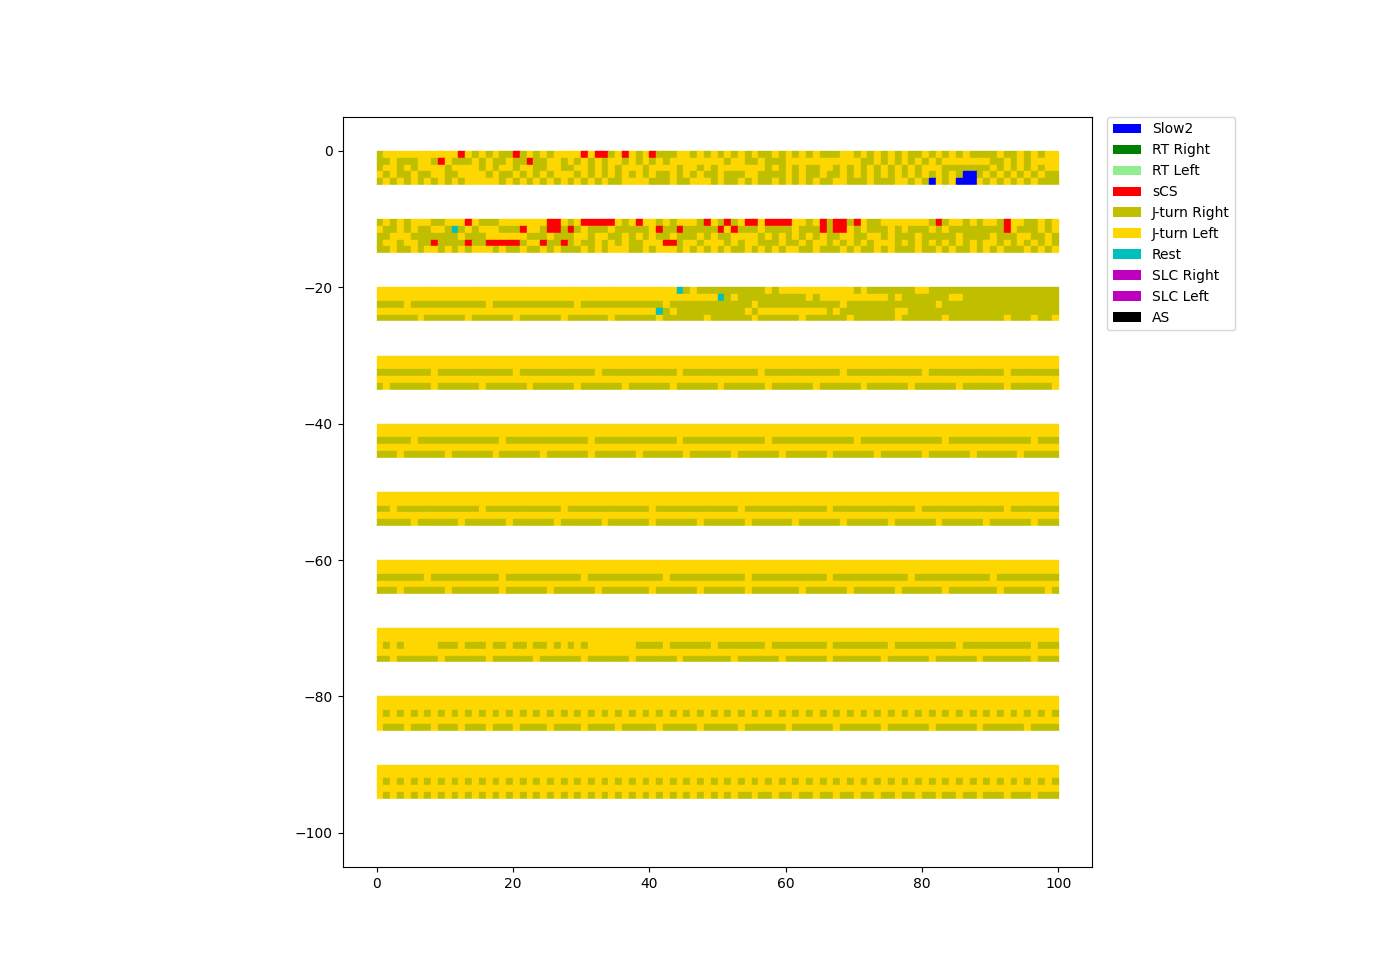
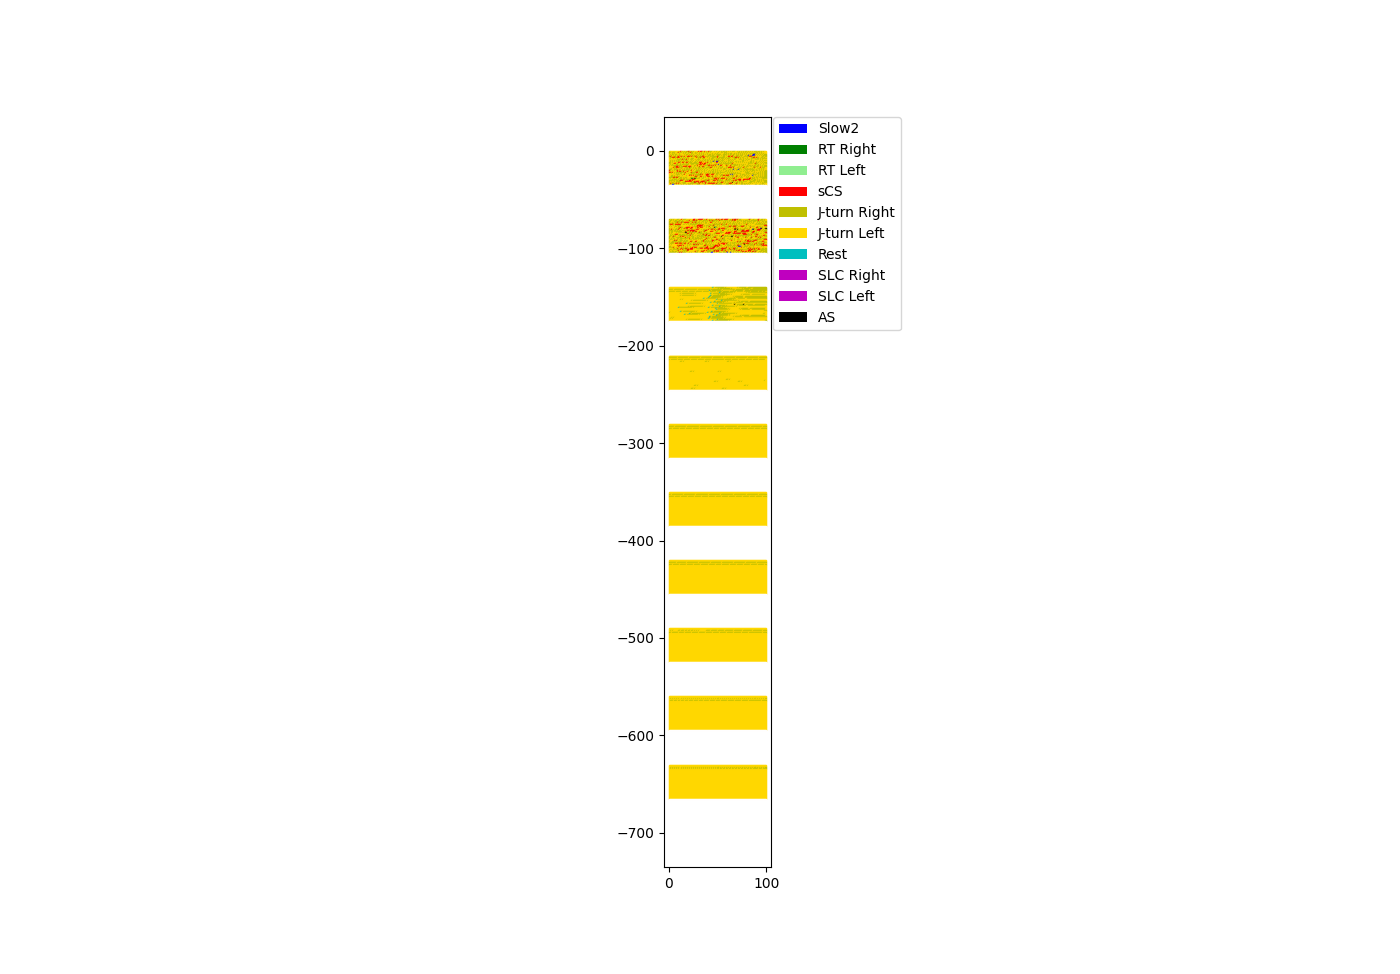
Videos

diff --git a/Analysis/Behavioural/Interventions/assess_full_interruptions.py b/Analysis/Behavioural/Interventions/assess_full_interruptions.py
@@ -287,14 +287,19 @@ def plot_binned_results(results, model_names, bin_size, initialisation_period, f
 def display_action_plots_discrete(model_name, assay_config, assay_id, n, figure_name, slice_size=200):
     actions_compiled = []
     for i in range(1, n+1):
+
         model_compiled = []
-        d = load_data(model_name, assay_config, f"{assay_id}-{i}")
+        if i < 6:
+            d = load_data(model_name, "Interruptions-HA", f"{assay_id}-{i}")
+        else:
+            d = load_data(model_name, assay_config, f"{assay_id}-{i}")
         for i in range(0, d["action"].shape[0], slice_size):
             model_compiled.append(d["action"][i: i+slice_size])
         actions_compiled.append(model_compiled)
 
-    actions_compiled2 = [[actions_compiled[trial][slice] for trial in range(len(actions_compiled))] for slice in range(10)]
-    actions_compiled2 = [actions_compiled2[i] + [(np.ones(slice_size)*10).astype(int) for j in range(len(actions_compiled2[i]))] for i in range(len(actions_compiled2))]
+    # actions_compiled2 = [[actions_compiled[trial][slice] for trial in range(len(actions_compiled))] for slice in range(10)]
+    # actions_compiled2 = [actions_compiled2[i] + [(np.ones(slice_size)*10).astype(int) for j in range(len(actions_compiled2[i]))] for i in range(len(actions_compiled2))]
+    actions_compiled2 = actions_compiled
     actions_compiled2 = np.concatenate((actions_compiled2))
 
     color_set = ['b', 'g', 'lightgreen', 'r', 'y', 'gold', "c", "m", "m", "black", "white"]
@@ -441,37 +446,37 @@ if __name__ == "__main__":
 
 
     # DQN
-    # display_action_plots_discrete("dqn_scaffold_14-1", "Interruptions-H", "Naturalistic", 5,
-    #                               figure_name="dqn_14_1_H_actions", slice_size=100)
+    display_action_plots_discrete("dqn_scaffold_14-1", "Interruptions-H", "Naturalistic", 35,
+                                  figure_name="dqn_14_1_H_actions", slice_size=2000)
     # display_action_plots_discrete("dqn_scaffold_30-2", "Interruptions-H", "Naturalistic", 5,
     #                               figure_name="dqn_30_2_H_actions", slice_size=100)
     # display_action_plots_discrete("dqn_scaffold_18-2", "Interruptions-H", "Naturalistic", 5,
     #                               figure_name="dqn_18_2_H_actions", slice_size=100)
 
-    results1 = assess_all_dqn_binned("dqn_scaffold_18-1", 5, 101)
-    results2 = assess_all_dqn_binned("dqn_scaffold_18-2", 5, 101)
-    results3 = assess_all_dqn_binned("dqn_scaffold_14-1", 5, 101)
-    results4 = assess_all_dqn_binned("dqn_scaffold_14-2", 5, 101)
-    results5 = assess_all_dqn_binned("dqn_scaffold_26-1", 5, 101)
-    results6 = assess_all_dqn_binned("dqn_scaffold_26-2", 5, 101)
-    results7 = assess_all_dqn_binned("dqn_scaffold_30-1", 5, 101)
-    results8 = assess_all_dqn_binned("dqn_scaffold_30-2", 5, 101)
-
-    control1 = assess_dqn_binned("dqn_scaffold_18-1", "Behavioural-Data-Free", 10, 101)
-    control2 = assess_dqn_binned("dqn_scaffold_18-2", "Behavioural-Data-Free", 10, 101)
-    control3 = assess_dqn_binned("dqn_scaffold_14-1", "Behavioural-Data-Free", 10, 101)
-    control4 = assess_dqn_binned("dqn_scaffold_14-2", "Behavioural-Data-Free", 10, 101)
-    control5 = assess_dqn_binned("dqn_scaffold_18-1", "Behavioural-Data-Free", 10, 101)
-    control6 = assess_dqn_binned("dqn_scaffold_18-2", "Behavioural-Data-Free", 10, 101)
-    control7 = assess_dqn_binned("dqn_scaffold_14-1", "Behavioural-Data-Free", 10, 101)
-    control8 = assess_dqn_binned("dqn_scaffold_14-2", "Behavioural-Data-Free", 10, 101)
-
-    model_names = ["dqn_scaffold_18-1", "dqn_scaffold_18-2", "dqn_scaffold_14-1", "dqn_scaffold_14-2",
-                   "dqn_scaffold_26-1", "dqn_scaffold_26-2", "dqn_scaffold_30-1", "dqn_scaffold_30-2"]
-
-    plot_binned_results([results1, results2, results3, results4, results5, results6, results7, results8],
-                        model_names, bin_size=101, initialisation_period=200, figure_name="all_dqn_heterogeneity",
-                        control_results=[control1, control2, control3, control4, control5, control6, control7, control8])
+    # results1 = assess_all_dqn_binned("dqn_scaffold_18-1", 5, 101)
+    # results2 = assess_all_dqn_binned("dqn_scaffold_18-2", 5, 101)
+    # results3 = assess_all_dqn_binned("dqn_scaffold_14-1", 5, 101)
+    # results4 = assess_all_dqn_binned("dqn_scaffold_14-2", 5, 101)
+    # results5 = assess_all_dqn_binned("dqn_scaffold_26-1", 5, 101)
+    # results6 = assess_all_dqn_binned("dqn_scaffold_26-2", 5, 101)
+    # results7 = assess_all_dqn_binned("dqn_scaffold_30-1", 5, 101)
+    # results8 = assess_all_dqn_binned("dqn_scaffold_30-2", 5, 101)
+    #
+    # control1 = assess_dqn_binned("dqn_scaffold_18-1", "Behavioural-Data-Free", 10, 101)
+    # control2 = assess_dqn_binned("dqn_scaffold_18-2", "Behavioural-Data-Free", 10, 101)
+    # control3 = assess_dqn_binned("dqn_scaffold_14-1", "Behavioural-Data-Free", 10, 101)
+    # control4 = assess_dqn_binned("dqn_scaffold_14-2", "Behavioural-Data-Free", 10, 101)
+    # control5 = assess_dqn_binned("dqn_scaffold_18-1", "Behavioural-Data-Free", 10, 101)
+    # control6 = assess_dqn_binned("dqn_scaffold_18-2", "Behavioural-Data-Free", 10, 101)
+    # control7 = assess_dqn_binned("dqn_scaffold_14-1", "Behavioural-Data-Free", 10, 101)
+    # control8 = assess_dqn_binned("dqn_scaffold_14-2", "Behavioural-Data-Free", 10, 101)
+    #
+    # model_names = ["dqn_scaffold_18-1", "dqn_scaffold_18-2", "dqn_scaffold_14-1", "dqn_scaffold_14-2",
+    #                "dqn_scaffold_26-1", "dqn_scaffold_26-2", "dqn_scaffold_30-1", "dqn_scaffold_30-2"]
+    #
+    # plot_binned_results([results1, results2, results3, results4, results5, results6, results7, results8],
+    #                     model_names, bin_size=101, initialisation_period=200, figure_name="all_dqn_heterogeneity",
+    #                     control_results=[control1, control2, control3, control4, control5, control6, control7, control8])
 
 
     # Example for nearly fully heterogenous actions

diff --git a/Analysis/Video/behaviour_video_construction.py b/Analysis/Video/behaviour_video_construction.py
@@ -256,13 +256,11 @@ def draw_episode(data, config_name, model_name, continuous_actions, draw_past_ac
         with open(f"Configurations/Assay-Configs/{config_name}_env.json", 'r') as f:
             env_variables = json.load(f)
 
-
     board = DrawingBoard(env_variables["width"], env_variables["height"])
     if show_energy_state:
         energy_levels = data["internal_state"][:, 0]
     fish_positions = data["fish_position"]
     num_steps = fish_positions.shape[0]
-
 
     frames = []
     action_buffer = []
@@ -289,8 +287,10 @@ def draw_episode(data, config_name, model_name, continuous_actions, draw_past_ac
         consumption_buffer.append(data["consumed"][step])
 
         if draw_past_actions:
-            adjusted_colour_index = ((1 - env_variables["bkg_scatter"]) * (step + 1) / n_actions_to_show) + \
-                                    env_variables["bkg_scatter"]
+            # adjusted_colour_index = ((1 - env_variables["bkg_scatter"]) * (step + 1) / n_actions_to_show) + \
+            #                         env_variables["bkg_scatter"]
+            # adjusted_colour_index = (1 - env_variables["bkg_scatter"]) + env_variables["bkg_scatter"]
+            adjusted_colour_index = 1
             board, action_buffer, position_buffer, orientation_buffer = draw_previous_actions(board, action_buffer,
                                                                                               position_buffer, orientation_buffer,
                                                                                               adjusted_colour_index=adjusted_colour_index,
